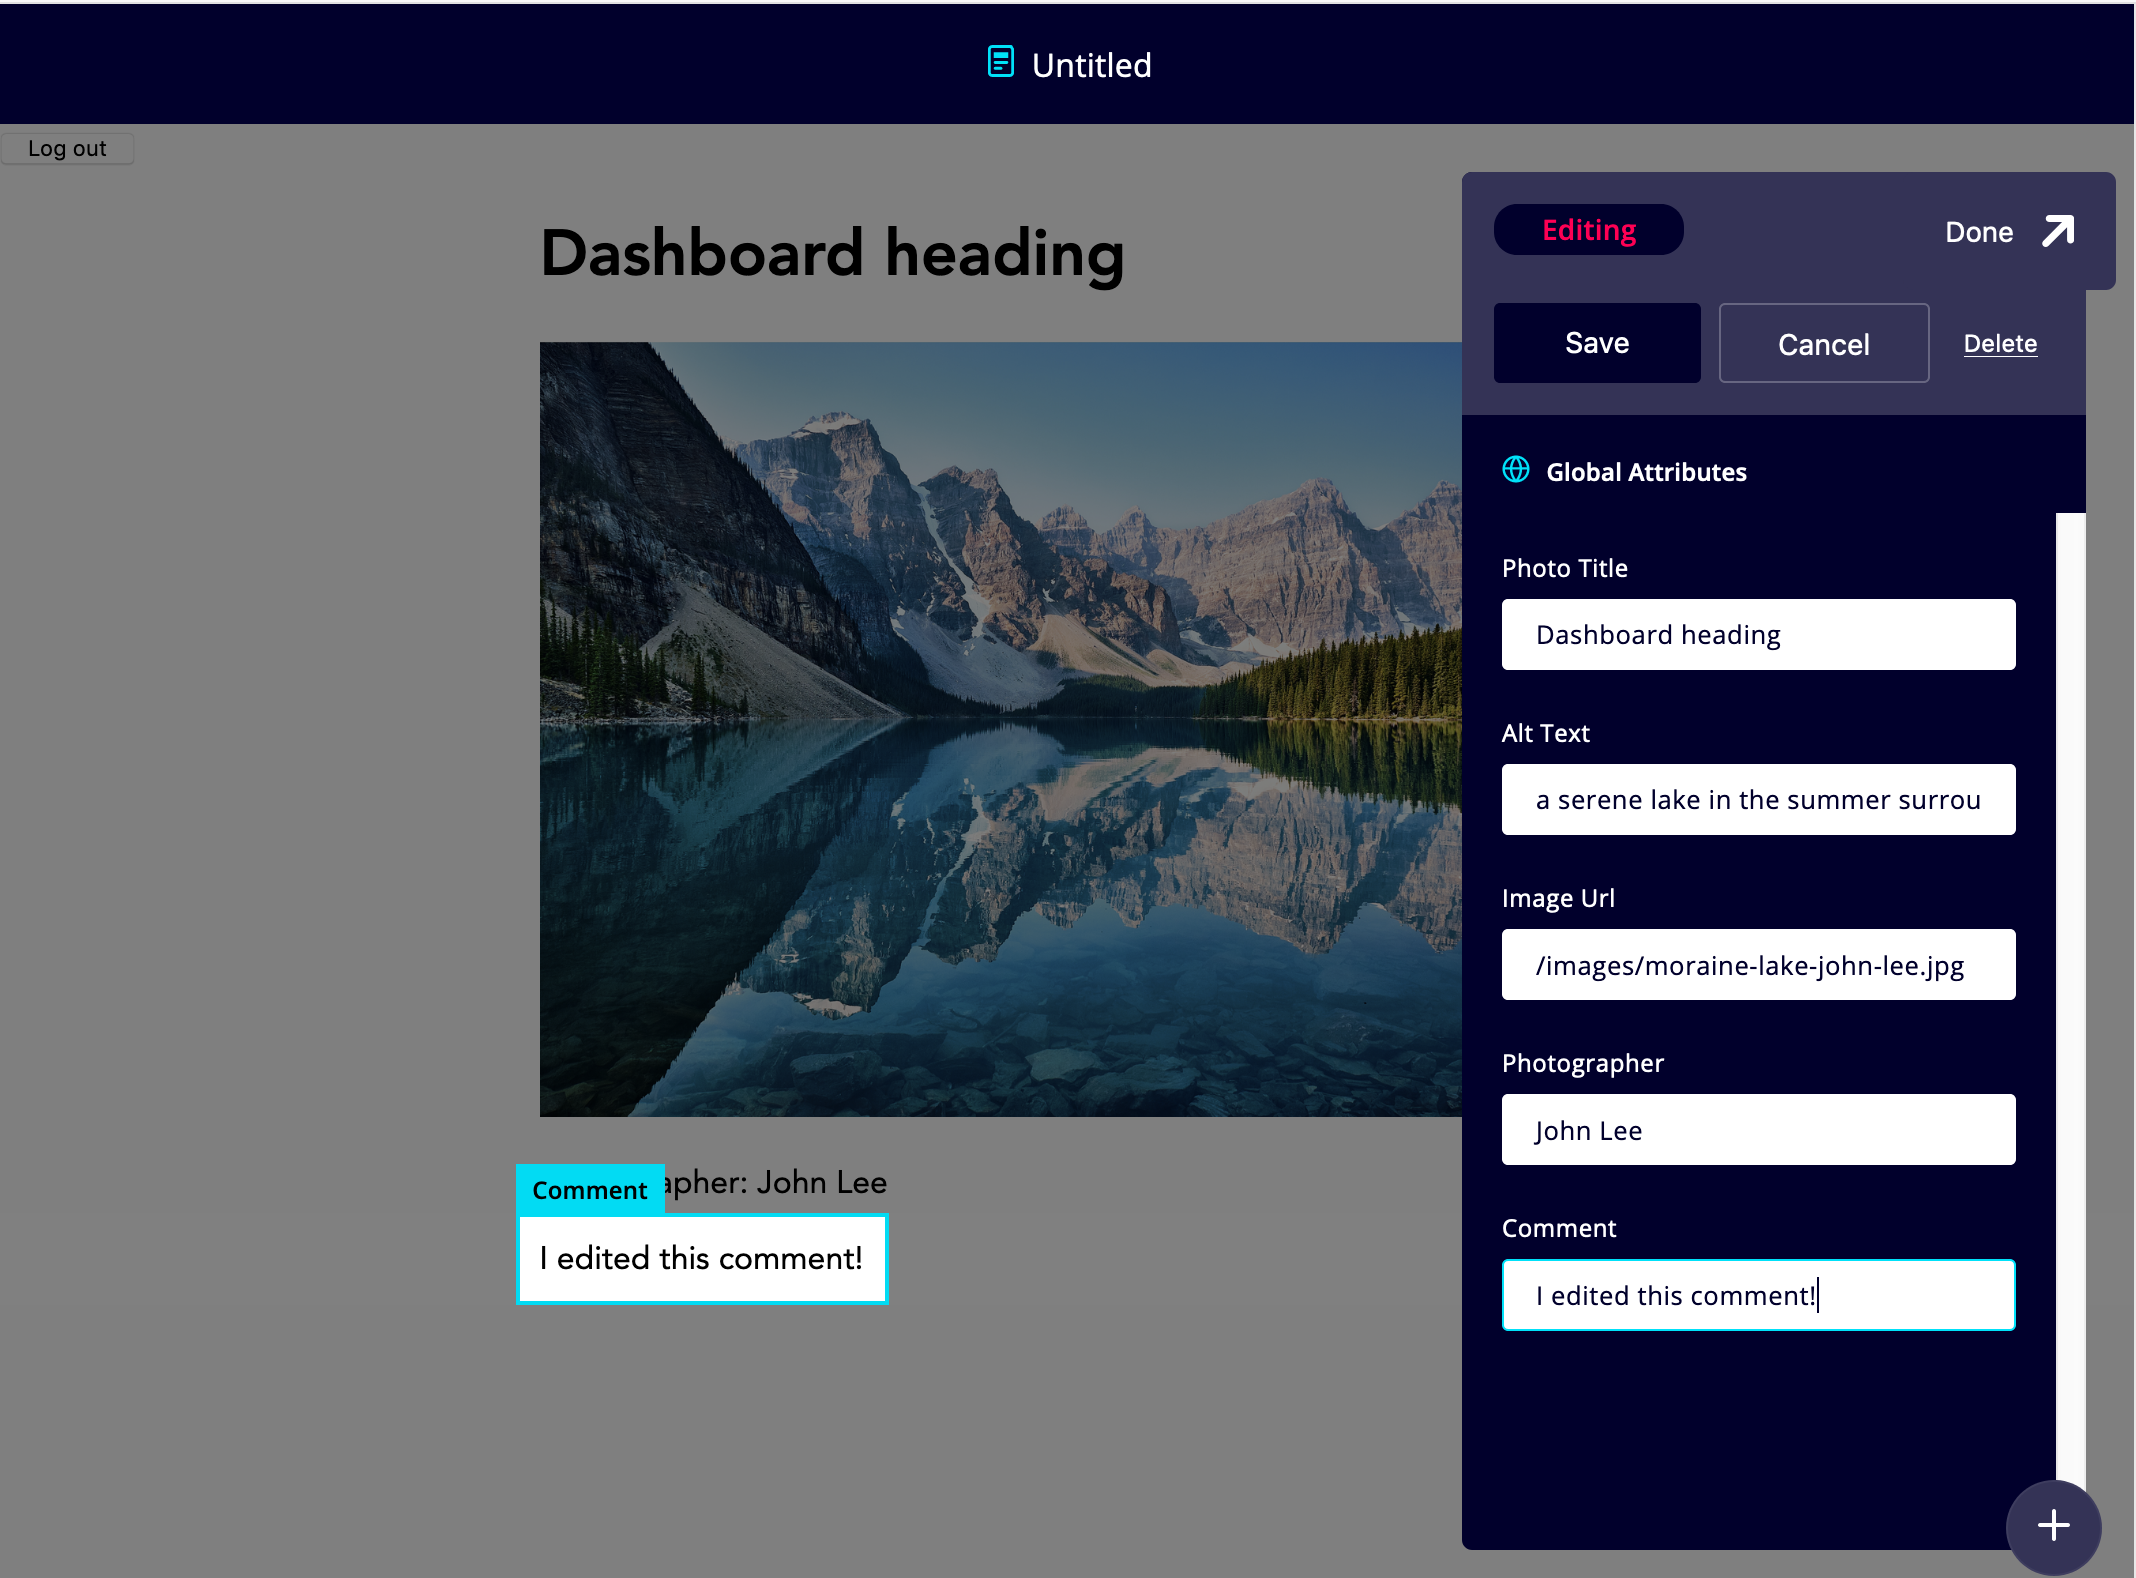
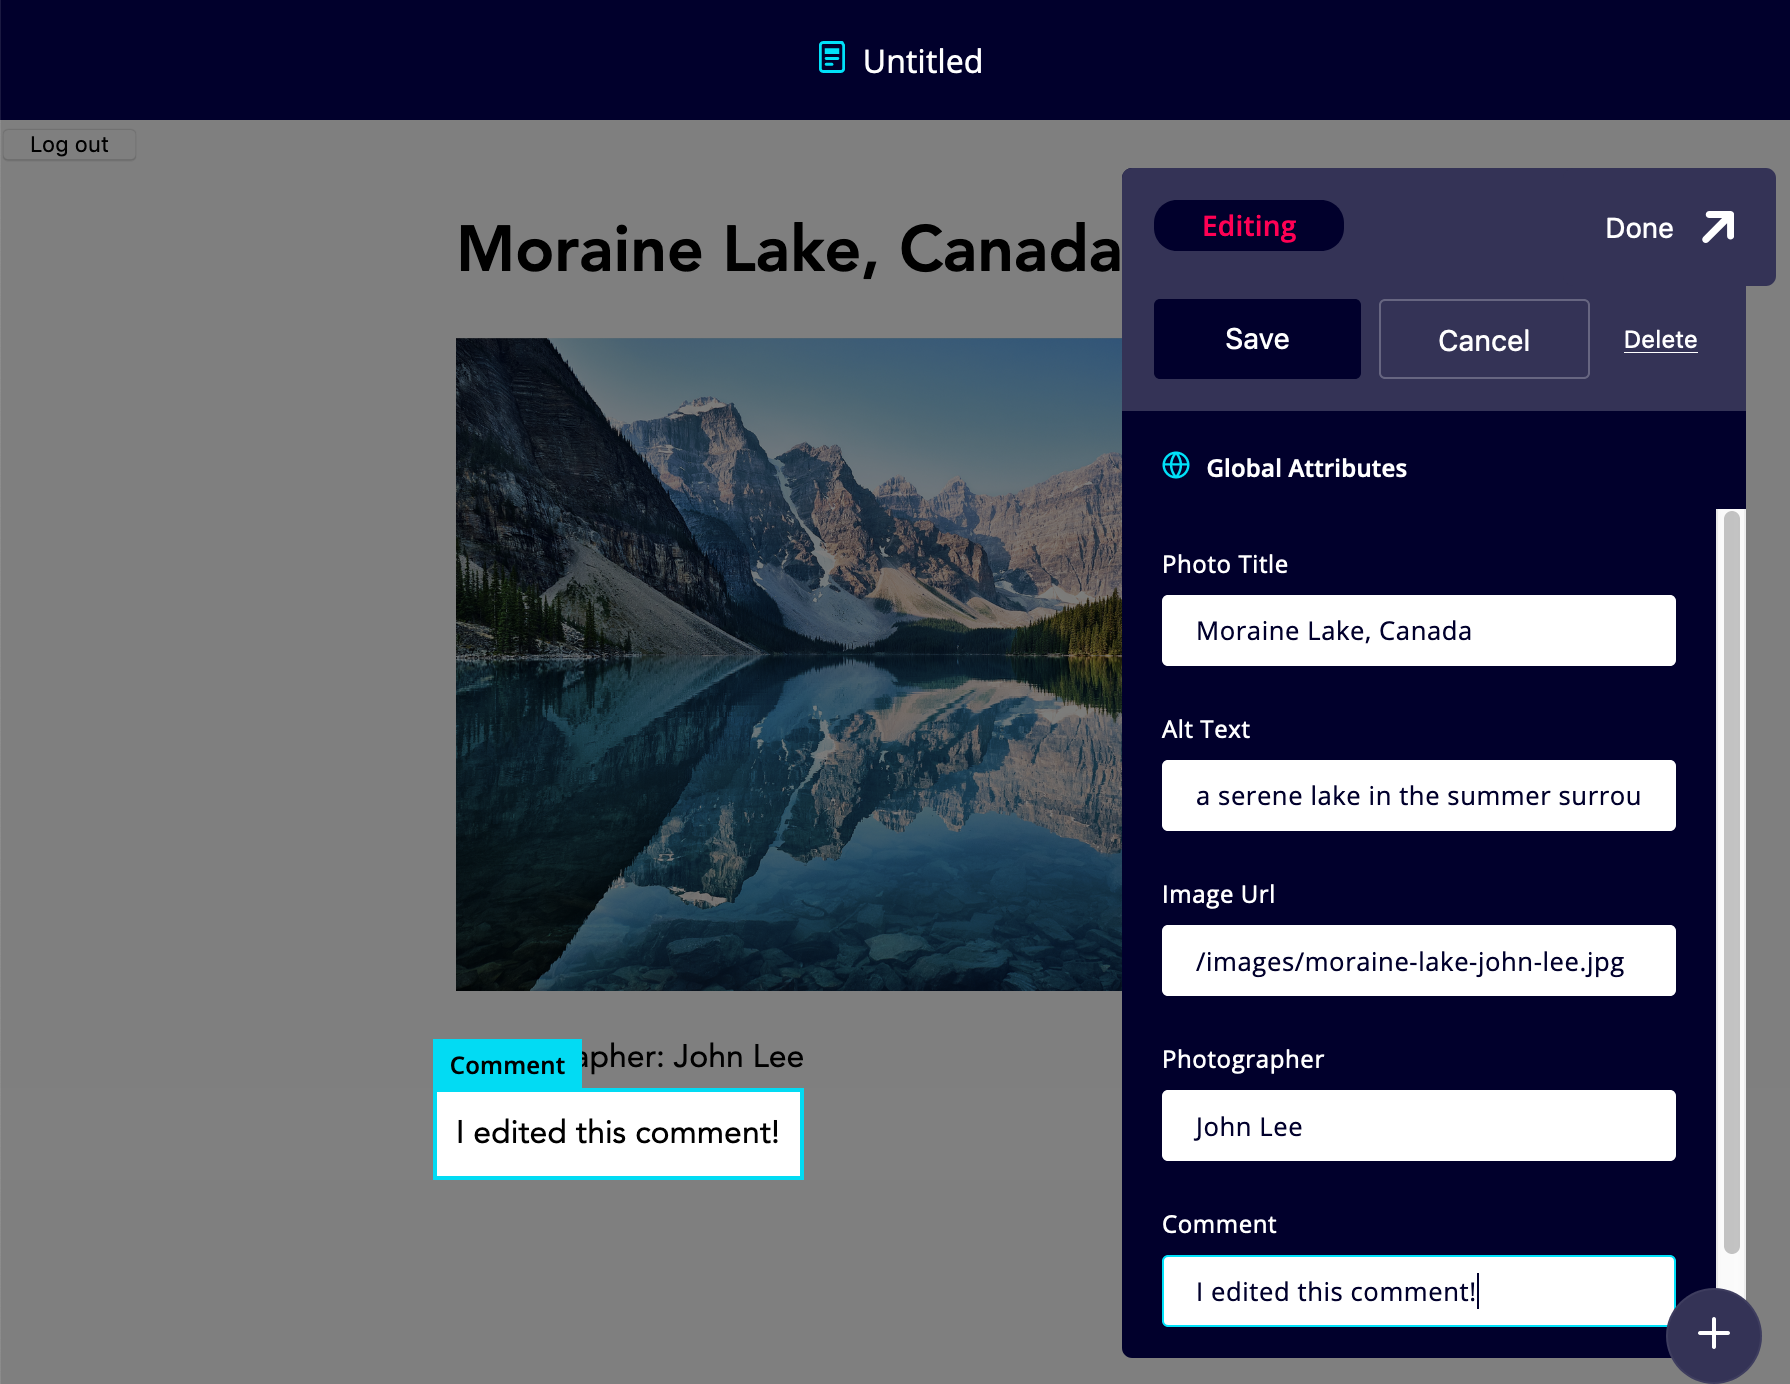
fix image and table of contents titles

Changed region(s): [[0.0, 0.0, 1.0, 1.0], [0.9832, 0.0, 1.0, 0.0311], [0.0, 0.0, 0.0307, 0.0311]]

diff --git a/guides/developer-cookbook/access-control.md b/guides/developer-cookbook/access-control.md
@@ -116,7 +116,7 @@ In `cardhost/cardstack/seeds/data.js`, create at least one photo Card:
 
 ```javascript
   factory.addResource('photos', 1).withAttributes({
-    'photo-title': 'Dashboard heading',
+    'photo-title': 'Moraine Lake, Canada',
     'photographer': 'John Lee',
     'image-url': '/images/moraine-lake-john-lee.jpg',
     'alt-text': 'a serene lake in the summer surrounded by trees and mountains',
